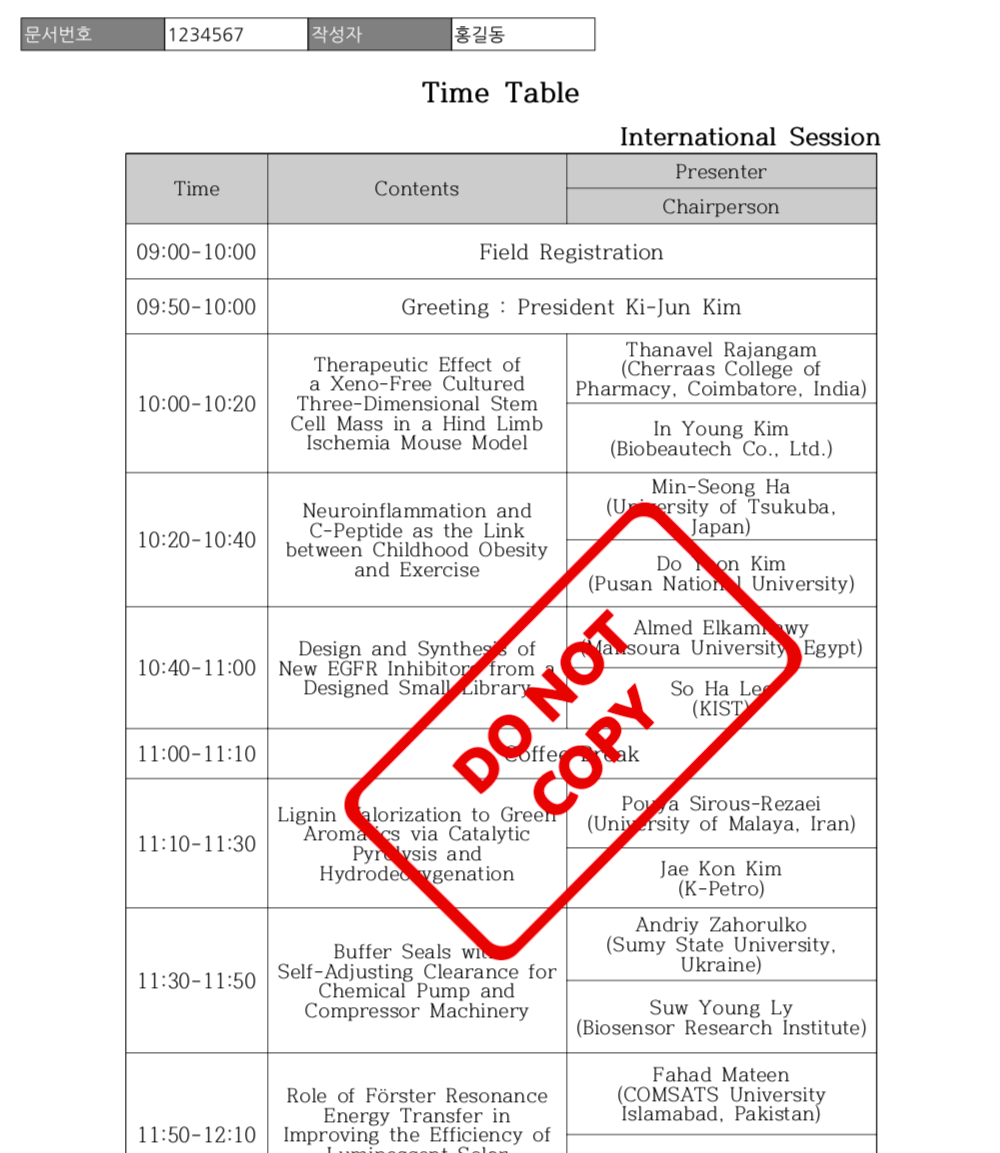
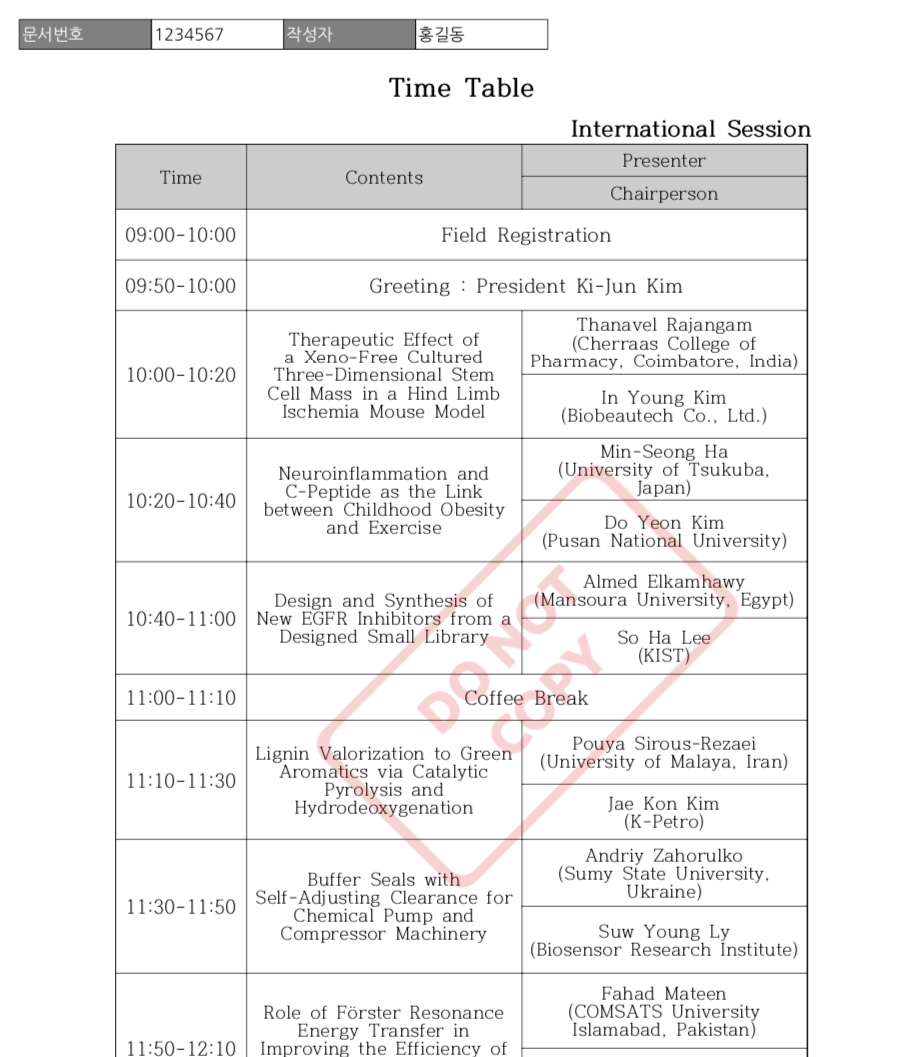
글 수정

Changed region(s): [[0.1238, 0.0937, 0.8972, 1.0], [0.0309, 0.0, 0.6188, 0.0937]]

diff --git a/_posts/201907/2019-07-30-itext add table to exsist pdf file.md b/_posts/201907/2019-07-30-itext add table to exsist pdf file.md
@@ -55,6 +55,7 @@ import com.itextpdf.text.PageSize;
 import com.itextpdf.text.Phrase;
 import com.itextpdf.text.pdf.BaseFont;
 import com.itextpdf.text.pdf.PdfContentByte;
+import com.itextpdf.text.pdf.PdfGState;
 import com.itextpdf.text.pdf.PdfImportedPage;
 import com.itextpdf.text.pdf.PdfPCell;
 import com.itextpdf.text.pdf.PdfPTable;
@@ -97,6 +98,11 @@ public class PDFTest {
                 // (0, -1) : 전체 row, 뒤에 숫자 두개는 추가할 위치(x, y) = 왼쪽에서 20, top+20 위치에 테이블 추가
                 makeHeader("1234567", "홍길동").writeSelectedRows(0, -1, 20, document.top() + 20, canvas);
             }
+
+            // 이미지 투명하게 처리
+            PdfGState state = new PdfGState();
+            state.setFillOpacity(0.2f);
+            canvas.setGState(state);
 
             // 워터마트 이미지 추가
             canvas.addImage(img);
